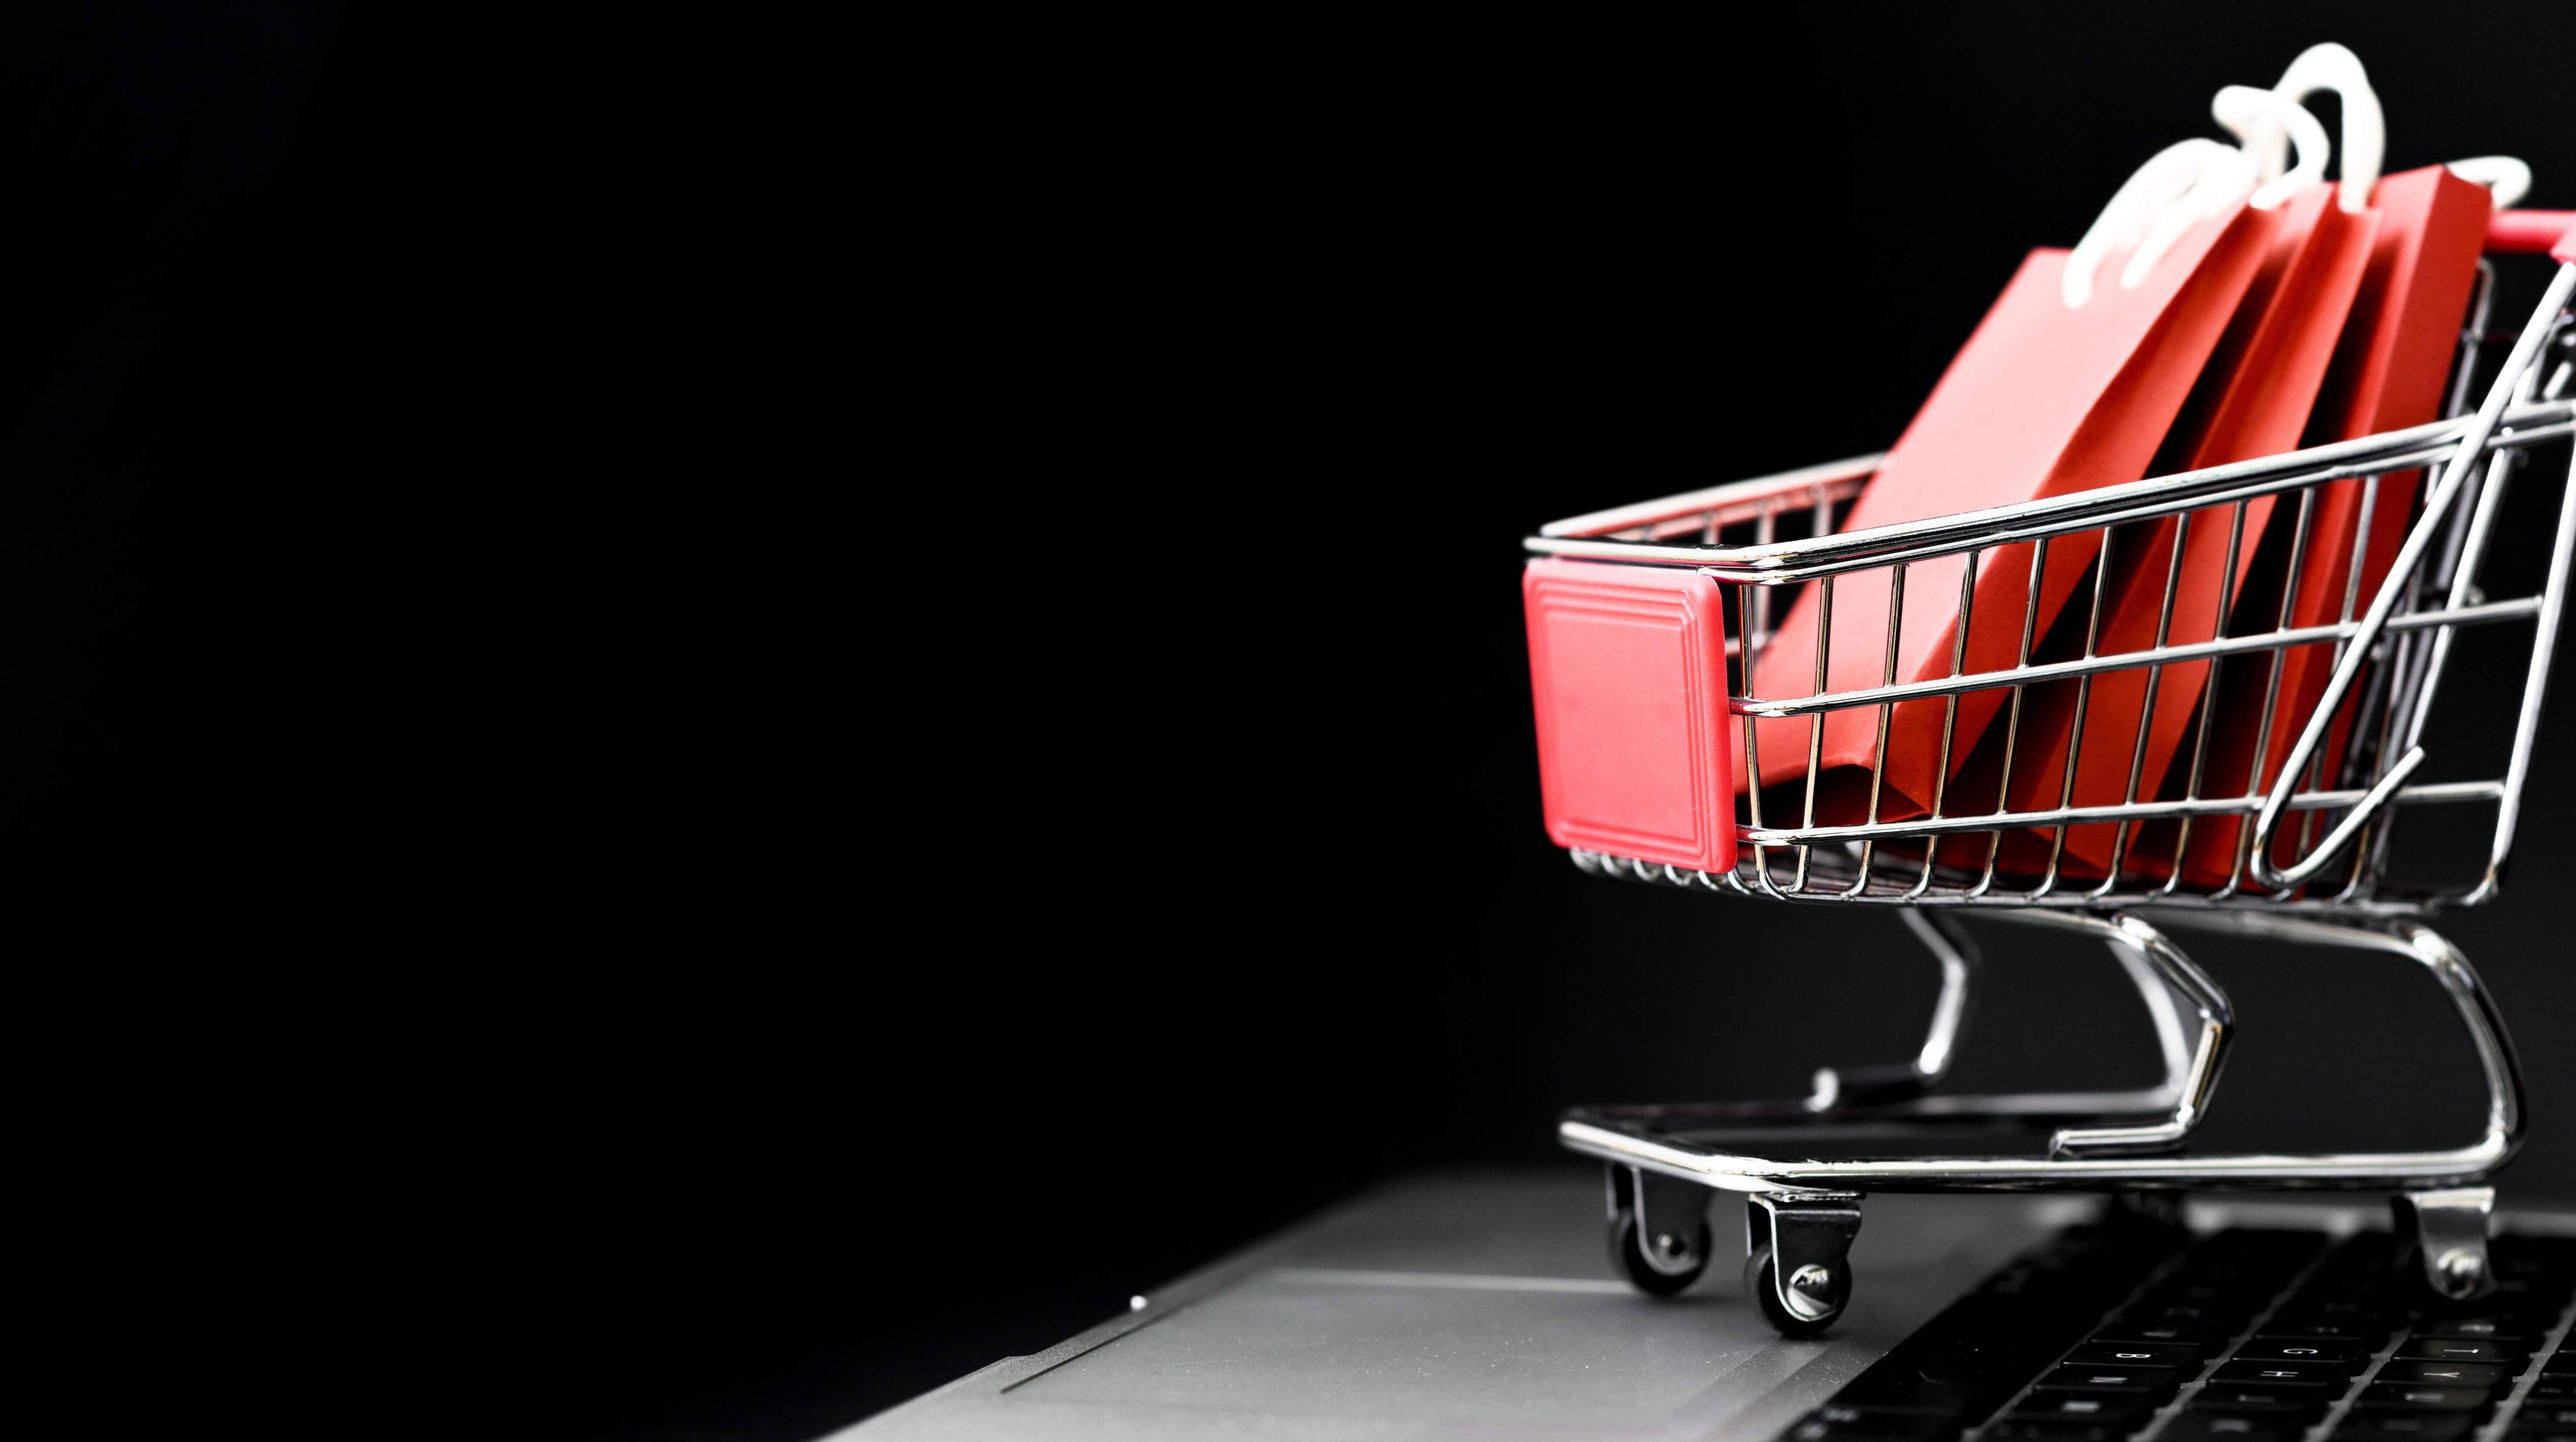
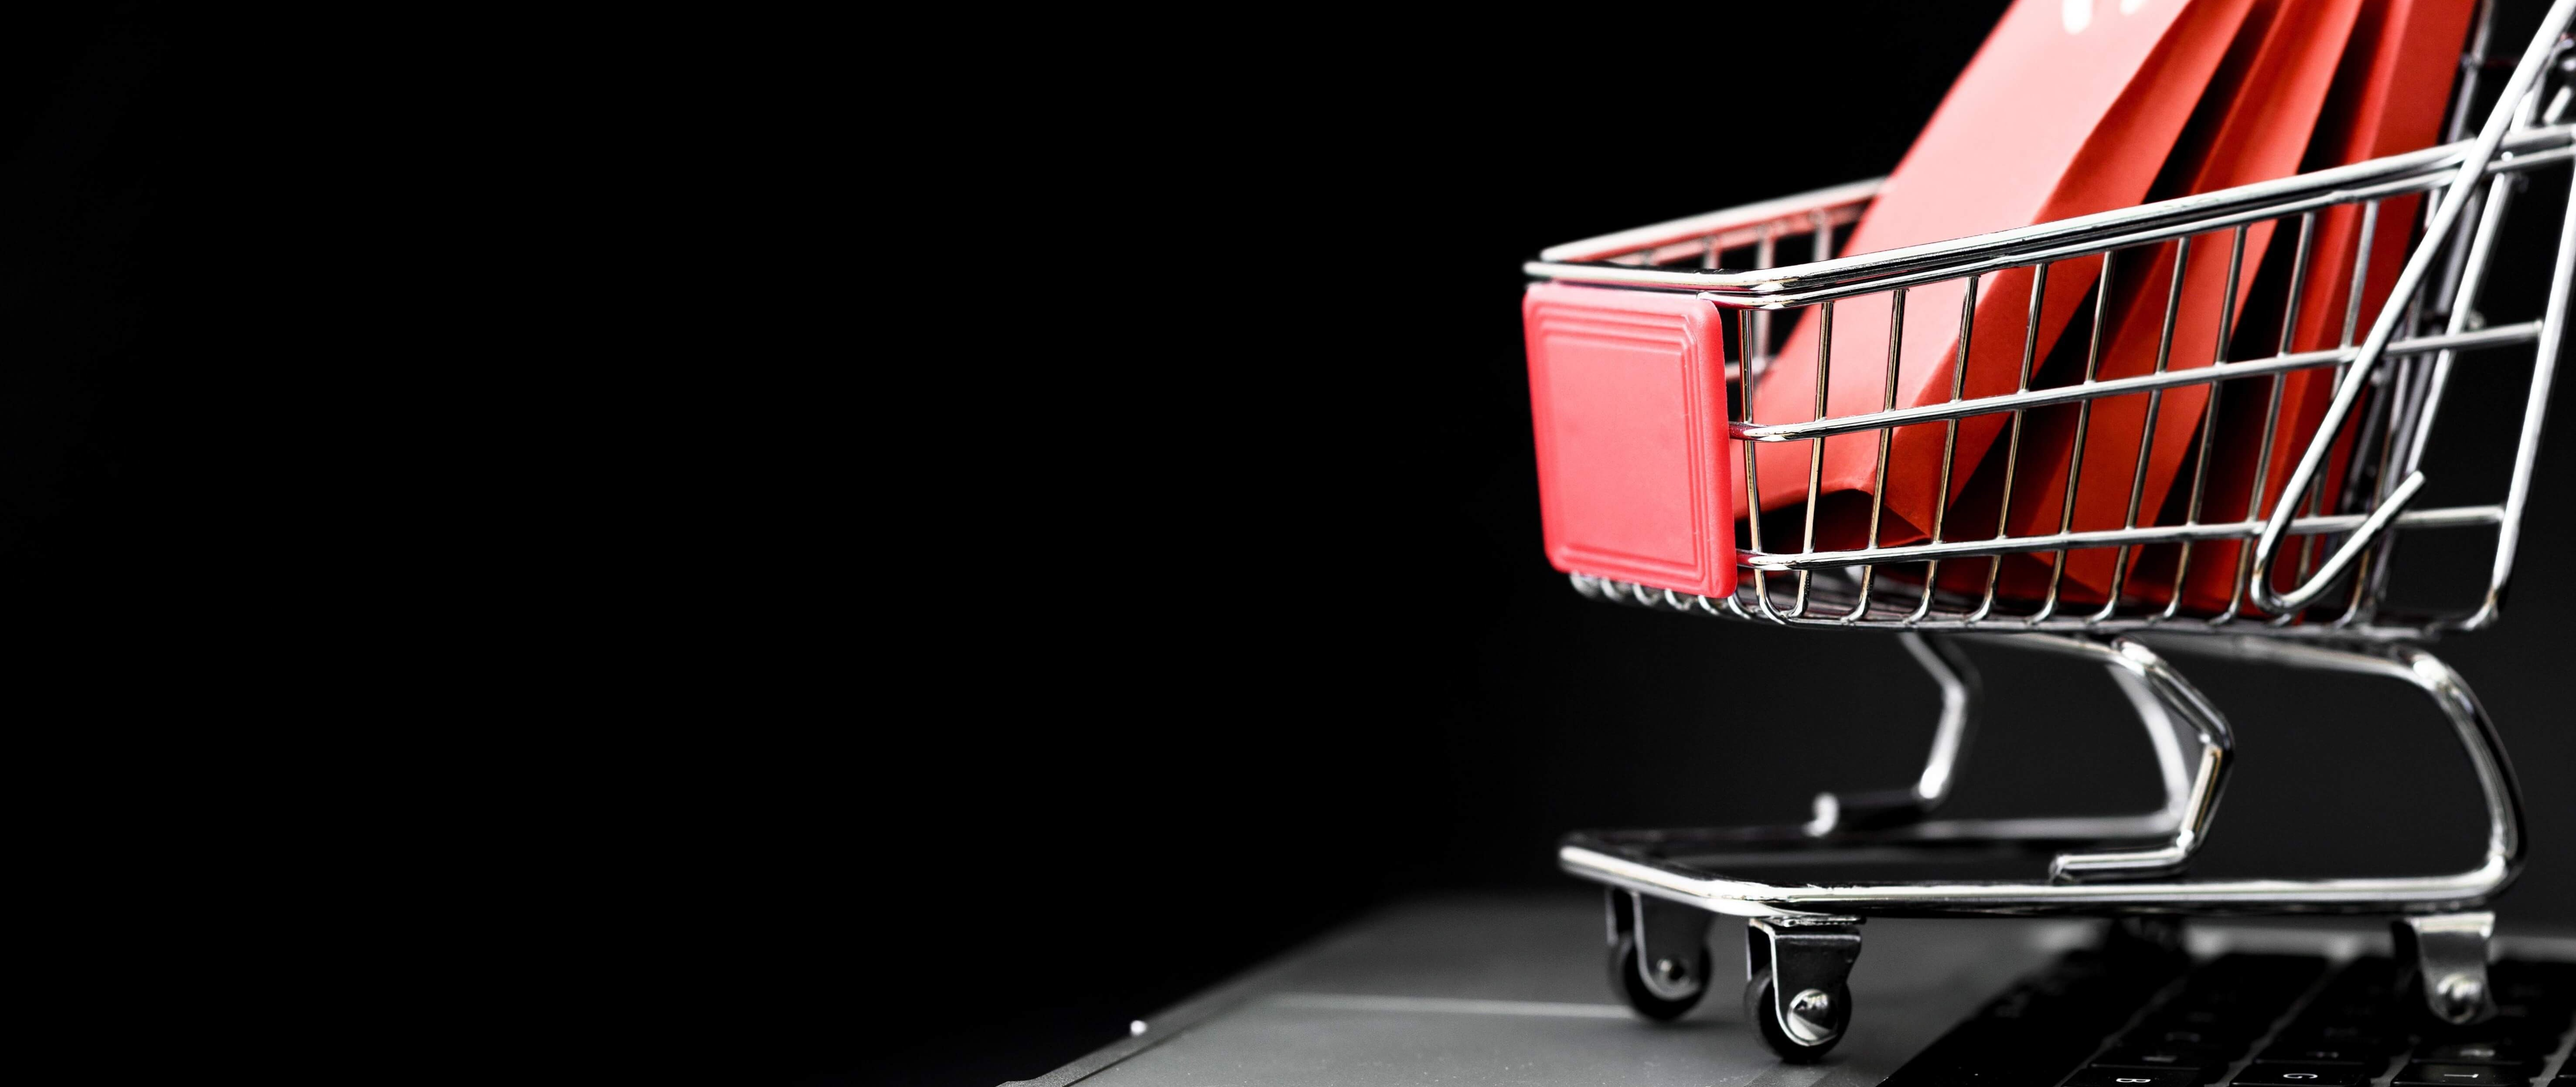
Upload some screenshotes

Changed region(s): [[0.3114, 0.0, 1.0, 1.0]]

diff --git a/src/components/ui/Banners/PromotionBanner2.jsx b/src/components/ui/Banners/PromotionBanner2.jsx
@@ -20,13 +20,10 @@ export default function PromotionBanner2() {
                   <span className="discount d-block d-md-inline"> 60% Discount</span>
                 </h2>
                 <p className="text-muted">Visit our shop to see amazing creations from our designers.</p>
-                <button className='btn btn-dark rounded-pill px-4 py-2'>Shop Now</button>
+                <button className='btn promotion-banner-btn rounded-pill px-4 py-2'>Shop Now</button>
               </div>
-    
             </div>
           </div>
         </>
   )
 }
-
- 

diff --git a/src/components/ui/Banners/PromotionBanner1.jsx b/src/components/ui/Banners/PromotionBanner1.jsx
@@ -12,7 +12,7 @@ export default function PromotionBanner1() {
               <span className="discount d-block d-md-inline"> 30% Discount</span>
             </h2>
             <p className="text-muted">Visit our shop to see amazing creations from our designers.</p>
-            <button className='btn btn-dark rounded-pill px-4 py-2'>Shop Now</button>
+            <button className='btn promotion-banner-btn rounded-pill px-4 py-2'>Shop Now</button>
           </div>
 
           <div className="promotionImgDiv mt-4 mt-md-0">

diff --git a/src/components/ui/Banners/PromotionBanner.css b/src/components/ui/Banners/PromotionBanner.css
@@ -10,3 +10,12 @@
     display: none;
   }
 }
+
+.promotion-banner-btn {
+  background-color: rgb(255, 123, 0) !important;
+  color: rgba(255, 255, 255, 0.986) !important;
+}
+
+.promotion-banner-btn:hover {
+  background-color: rgba(0, 0, 0, 0.603) !important;
+}

diff --git a/README.md b/README.md
@@ -28,6 +28,14 @@
 `Modern Routing`: by `React Router` v7 and a custom `ScrollToTop` logic for enhanced `SPA UX`.
 
 ---
+## Screenshotes: 
+
+![Main Page](https://raw.githubusercontent.com/Wahab-Al/Fashion/3a7cb854c6ebd4f24330a60a37330eec7307314b/public/screenshots/mainPage.png)
+![Customer Voices](https://raw.githubusercontent.com/Wahab-Al/Fashion/3a7cb854c6ebd4f24330a60a37330eec7307314b/public/screenshots/customVoices.png)
+![Categories](https://raw.githubusercontent.com/Wahab-Al/Fashion/3a7cb854c6ebd4f24330a60a37330eec7307314b/public/screenshots/categories.png)
+![Team](https://raw.githubusercontent.com/Wahab-Al/Fashion/3a7cb854c6ebd4f24330a60a37330eec7307314b/public/screenshots/Team.png)
+![Item View](https://raw.githubusercontent.com/Wahab-Al/Fashion/3a7cb854c6ebd4f24330a60a37330eec7307314b/public/screenshots/itemView.png)
+![Register](https://raw.githubusercontent.com/Wahab-Al/Fashion/3a7cb854c6ebd4f24330a60a37330eec7307314b/public/screenshots/register.png)
 
 ## License: 📄
 MIT License
